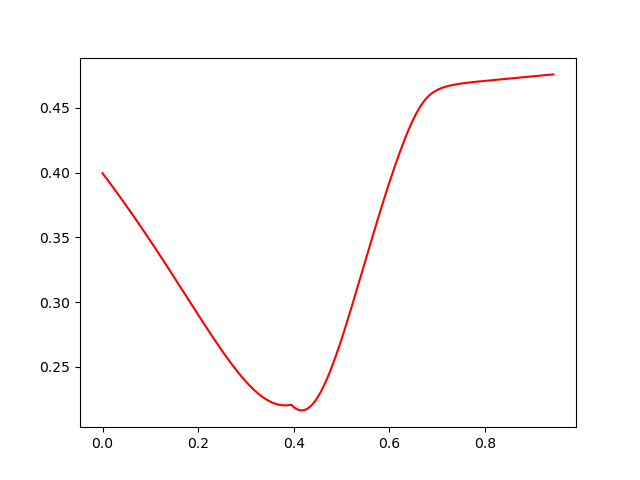
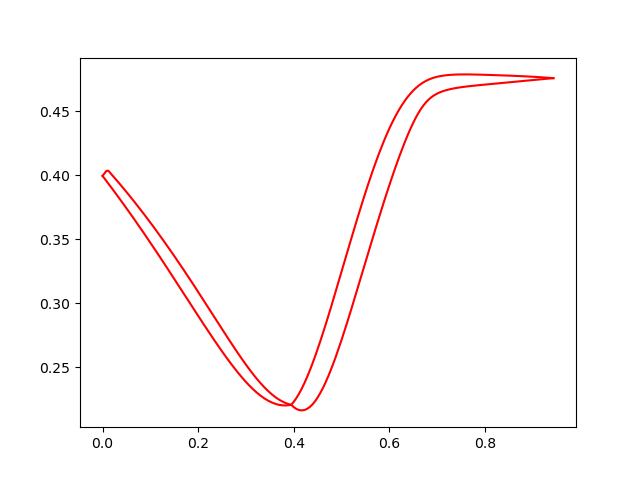
divided things in methods

diff --git a/Method3/band_reader.py b/Method3/band_reader.py
@@ -26,7 +26,7 @@ band_dic[band_name]=np.array([tmp_list]).transpose()
 for x in bands:
     tmp=band_dic[x]
     plt.plot(tmp[0],tmp[1], c ="red")
-    break
+
 #print(band_dic)
 plt.savefig(f'raw_data.png')
 def firstorderdiff(k,band):
@@ -57,6 +57,12 @@ tmp=band_dic[x]
 peaks=firstorderdiff(tmp[0],tmp[1])
 print(peaks)    
 for x in peaks:plt.axvline(x, color='black', linewidth=0.5)
+
+x="Band-Index 154"
+tmp=band_dic[x]
+peaks=firstorderdiff(tmp[0],tmp[1])
+print(peaks)    
+for x in peaks:plt.axvline(x, color='yellow', linewidth=0.5)
 
 
 

diff --git a/Method2/plotter_code.py b/Method2/plotter_code.py
@@ -40,6 +40,7 @@ for i in range(len(X)):
 
 fig = plt.figure()
 ax = fig.add_subplot(111)
+X = [x+0.39456 for x in X]
 plt.plot(X, Y1, c ="red")
 plt.plot(X, Y2, c ="red")
 plt.axhline(0, color='black', linewidth=0.5),plt.axvline(0, color='black', linewidth=0.5)
